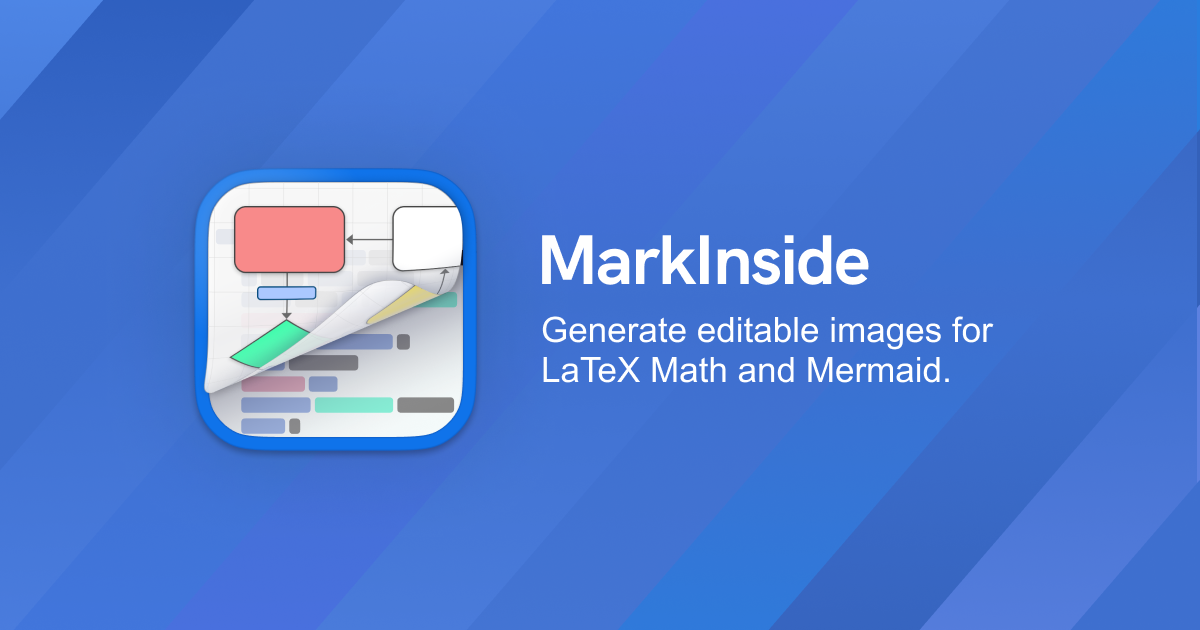
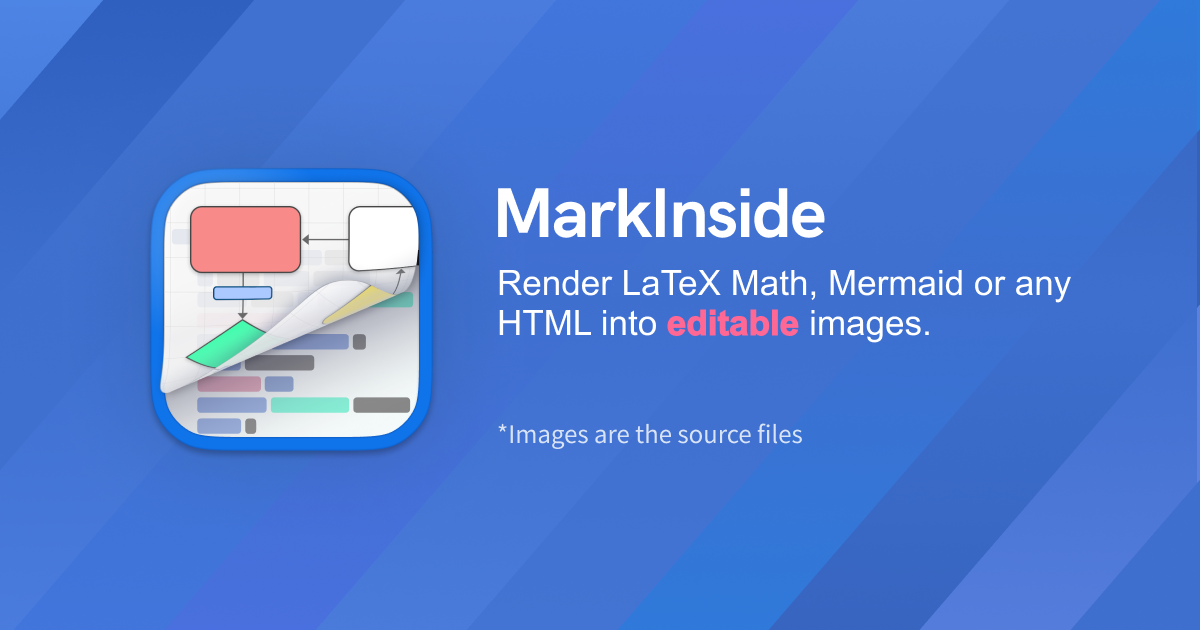
Publish deploy 2022-03-10 12:11 AM

Changed region(s): [[0.1233, 0.2413, 0.8942, 0.7238]]

diff --git a/zh-cn/index.html b/zh-cn/index.html
@@ -1,1 +1,1 @@
-<!DOCTYPE html><html lang="en"><head><meta charset="UTF-8"/><meta name="og:site_name" content="MarkInside for macOS (and Windows Later)"/><link rel="canonical" href="https://markinside.intii.com/zh-cn"/><meta name="twitter:url" content="https://markinside.intii.com/zh-cn"/><meta name="og:url" content="https://markinside.intii.com/zh-cn"/><title>MarkInside for macOS (and Windows Later)</title><meta name="twitter:title" content="MarkInside for macOS (and Windows Later)"/><meta name="og:title" content="MarkInside for macOS (and Windows Later)"/><meta name="description" content="MarkInside for macOS (and Windows Later)"/><meta name="twitter:description" content="MarkInside for macOS (and Windows Later)"/><meta name="og:description" content="MarkInside for macOS (and Windows Later)"/><meta name="twitter:card" content="summary_large_image"/><link rel="stylesheet" href="/styles.css" type="text/css"/><meta name="viewport" content="width=device-width, initial-scale=1.0"/><link rel="shortcut icon" href="/images/favicon.png" type="image/png"/><meta name="twitter:image" content="https://markinside.intii.com/Twitter_Card_ZH.png?random=3878"/><meta name="og:image" content="https://markinside.intii.com/Twitter_Card_ZH.png?random=3878"/><meta name="twitter:site" content="@intitni"/><meta name="twitter:creator" content="@intitni"/></head><body class="wrapper"><header class="header"><div class="page-links"><p><a href="https://www.craft.do/s/3U2bTBDh3YGYG7">版本记录</a></p><p><a href="https://www.craft.do/s/202QeKkBT1MksS">隐私协议</a></p></div></header><div class="introduction-stack"><div class="app-icon"><img src="/AppIcon.png"/></div><div class="app-title"><h1>MarkInside</h1></div><div class="app-introduction"><p>你并不需要一个高端的笔记软件去创建、编辑、预览</p><p><span class="bold">LaTex Math</span> 和 <span class="bold">Mermaid</span></p></div><div class="downloads"><a href="https://apps.apple.com/cn/app/markinside/id1551813400"><img src="/DownloadFromMAS_US.svg"/></a></div></div><div class="content"><h2>图片即源文件</h2><p>没有任何 *.markinside 文件！通过 MarkInside 生成的图片就是源文件。 如果你想编辑图片里的内容，只需要✱用 MarkInside 打开图片就可以了。</p><p class="note">✱ 有的应用会压缩 PNG 文件，导致 MarkInside 嵌入其中的源代码被删除。如果你遇到了这种情况，可以考虑生成 SVG 或 PDF。</p><h2>实时预览</h2><p>MarkInside 提供了生成内容的实时预览，随时更新源代码或者配置就能实时查看图片的变化。</p><p>你也可以调整预览区域大小，或者修改它的背景颜色以让它更贴近你希望使用这些图片的环境。这样你就可以更游刃有余地为图片选择适合的配置。</p><h2>在任何地方使用</h2><p>通过 MarkInside 生成的文件不过是常见的 PNG、SVG 和 PDF。这意味着你不需要什么特殊的渲染软件就可以将它们展示在任何地方。</p></div><footer class="footer"><p>Copyright © 2021</p><p><a href="mailto:markinsideapp@intii.com">联系我</a></p><script src="https://www.googletagmanager.com/gtag/js?id=UA-17603222-4"></script></footer></body></html>
+<!DOCTYPE html><html lang="en"><head><meta charset="UTF-8"/><meta name="og:site_name" content="MarkInside for macOS (and Windows Later)"/><link rel="canonical" href="https://markinside.intii.com/zh-cn"/><meta name="twitter:url" content="https://markinside.intii.com/zh-cn"/><meta name="og:url" content="https://markinside.intii.com/zh-cn"/><title>MarkInside for macOS (and Windows Later)</title><meta name="twitter:title" content="MarkInside for macOS (and Windows Later)"/><meta name="og:title" content="MarkInside for macOS (and Windows Later)"/><meta name="description" content="MarkInside for macOS (and Windows Later)"/><meta name="twitter:description" content="MarkInside for macOS (and Windows Later)"/><meta name="og:description" content="MarkInside for macOS (and Windows Later)"/><meta name="twitter:card" content="summary_large_image"/><link rel="stylesheet" href="/styles.css" type="text/css"/><meta name="viewport" content="width=device-width, initial-scale=1.0"/><link rel="shortcut icon" href="/images/favicon.png" type="image/png"/><meta name="twitter:image" content="https://markinside.intii.com/Twitter_Card_ZH.png?random=3747"/><meta name="og:image" content="https://markinside.intii.com/Twitter_Card_ZH.png?random=3747"/><meta name="twitter:site" content="@intitni"/><meta name="twitter:creator" content="@intitni"/></head><body class="wrapper"><header class="header"><div class="page-links"><p><a href="https://www.craft.do/s/3U2bTBDh3YGYG7">版本记录</a></p><p><a href="https://www.craft.do/s/202QeKkBT1MksS">隐私协议</a></p></div></header><div class="introduction-stack"><div class="app-icon"><img src="/AppIcon.png"/></div><div class="app-title"><h1>MarkInside</h1></div><div class="app-introduction"><p>你并不需要一个高端的笔记软件去创建、编辑、预览</p><p><span class="bold">LaTeX 数学公式</span>、<span class="bold">Mermaid</span> 和<span class="bold">任意 HTML</span></p></div><div class="downloads"><a href="https://apps.apple.com/cn/app/markinside/id1551813400"><img src="/DownloadFromMAS_US.svg"/></a></div></div><div class="content"><h2>图片即源文件</h2><p>没有任何 *.markinside 文件！通过 MarkInside 生成的图片就是源文件。 如果你想编辑图片里的内容，只需要✱用 MarkInside 打开图片就可以了。</p><p class="note">✱ 有的应用会压缩 PNG 文件，导致 MarkInside 嵌入其中的源代码被删除。如果你遇到了这种情况，可以考虑生成 SVG 或 PDF。</p><h2>实时预览</h2><p>MarkInside 提供了生成内容的实时预览，随时更新源代码或者配置就能实时查看图片的变化。</p><p>你也可以调整预览区域大小，或者修改它的背景颜色以让它更贴近你希望使用这些图片的环境。这样你就可以更游刃有余地为图片选择适合的配置。</p><h2>在任何地方使用</h2><p>通过 MarkInside 生成的文件不过是常见的 PNG、SVG 和 PDF。这意味着你不需要什么特殊的渲染软件就可以将它们展示在任何地方。</p></div><footer class="footer"><p>Copyright © 2021</p><p><a href="mailto:markinsideapp@intii.com">联系我</a></p><script src="https://www.googletagmanager.com/gtag/js?id=UA-17603222-4"></script></footer></body></html>

diff --git a/index.html b/index.html
@@ -1,2 +1,2 @@
-<!DOCTYPE html><html lang="en"><head><meta charset="UTF-8"/><meta name="og:site_name" content="MarkInside for macOS (and Windows Later)"/><link rel="canonical" href="https://markinside.intii.com"/><meta name="twitter:url" content="https://markinside.intii.com"/><meta name="og:url" content="https://markinside.intii.com"/><title>MarkInside for macOS (and Windows Later)</title><meta name="twitter:title" content="MarkInside for macOS (and Windows Later)"/><meta name="og:title" content="MarkInside for macOS (and Windows Later)"/><meta name="description" content="MarkInside for macOS (and Windows Later)"/><meta name="twitter:description" content="MarkInside for macOS (and Windows Later)"/><meta name="og:description" content="MarkInside for macOS (and Windows Later)"/><meta name="twitter:card" content="summary_large_image"/><link rel="stylesheet" href="/styles.css" type="text/css"/><meta name="viewport" content="width=device-width, initial-scale=1.0"/><link rel="shortcut icon" href="/images/favicon.png" type="image/png"/><meta name="twitter:image" content="https://markinside.intii.com/Twitter_Card_EN.png?random=6836"/><meta name="og:image" content="https://markinside.intii.com/Twitter_Card_EN.png?random=6836"/><meta name="twitter:site" content="@intitni"/><meta name="twitter:creator" content="@intitni"/></head><body class="wrapper"><header class="header"><div class="page-links"><p><a href="https://www.craft.do/s/3U2bTBDh3YGYG7">Change Log</a></p><p><a href="https://www.craft.do/s/202QeKkBT1MksS">Privacy Policy</a></p></div></header><div class="introduction-stack"><div class="app-icon"><img src="/AppIcon.png"/></div><div class="app-title"><h1>MarkInside</h1></div><div class="app-introduction"><p>You don’t need a fancy note editor to
-create, edit and preview</p><p><span class="bold">LaTex Math</span> and <span class="bold">Mermaid</span></p></div><div class="downloads"><a href="https://apps.apple.com/cn/app/markinside/id1551813400"><img src="/DownloadFromMAS_US.svg"/></a></div></div><div class="content"><h2>Image is the Source</h2><p>There is no *.markinside file generated alongside when you save images from code. The images are just the single source of truth. You can simply✱ open them in MarkInside to make changes.</p><p class="note">✱ Some apps or services may compress your images and wipe away source codes embed inside. You can try to save as SVG or PDF to bypass this issue.</p><h2>Live Preview</h2><p>MarkInside offers you a side by side editor, you can see the result as you type or change preferences.</p><p>You can adjust windows size and canvas background color, to see how well the output image will suit your use case.</p><h2>Use Everywhere</h2><p>The generated files are just images in PNG, SVG and PDF. Which means you can use them everywhere, without the need for the viewer to support rendering Mermaid, etc.</p></div><footer class="footer"><p>Copyright © 2021</p><p><a href="mailto:markinsideapp@intii.com">Contact Me</a></p><script src="https://www.googletagmanager.com/gtag/js?id=UA-17603222-4"></script></footer></body></html>
+<!DOCTYPE html><html lang="en"><head><meta charset="UTF-8"/><meta name="og:site_name" content="MarkInside for macOS (and Windows Later)"/><link rel="canonical" href="https://markinside.intii.com"/><meta name="twitter:url" content="https://markinside.intii.com"/><meta name="og:url" content="https://markinside.intii.com"/><title>MarkInside for macOS (and Windows Later)</title><meta name="twitter:title" content="MarkInside for macOS (and Windows Later)"/><meta name="og:title" content="MarkInside for macOS (and Windows Later)"/><meta name="description" content="MarkInside for macOS (and Windows Later)"/><meta name="twitter:description" content="MarkInside for macOS (and Windows Later)"/><meta name="og:description" content="MarkInside for macOS (and Windows Later)"/><meta name="twitter:card" content="summary_large_image"/><link rel="stylesheet" href="/styles.css" type="text/css"/><meta name="viewport" content="width=device-width, initial-scale=1.0"/><link rel="shortcut icon" href="/images/favicon.png" type="image/png"/><meta name="twitter:image" content="https://markinside.intii.com/Twitter_Card_EN.png?random=301"/><meta name="og:image" content="https://markinside.intii.com/Twitter_Card_EN.png?random=301"/><meta name="twitter:site" content="@intitni"/><meta name="twitter:creator" content="@intitni"/></head><body class="wrapper"><header class="header"><div class="page-links"><p><a href="https://www.craft.do/s/3U2bTBDh3YGYG7">Change Log</a></p><p><a href="https://www.craft.do/s/202QeKkBT1MksS">Privacy Policy</a></p></div></header><div class="introduction-stack"><div class="app-icon"><img src="/AppIcon.png"/></div><div class="app-title"><h1>MarkInside</h1></div><div class="app-introduction"><p>You don’t need a fancy note editor to
+create, edit and preview</p><p><span class="bold">LaTeX Math</span>, <span class="bold">Mermaid</span>, and <span class="bold">any HTML</span></p></div><div class="downloads"><a href="https://apps.apple.com/cn/app/markinside/id1551813400"><img src="/DownloadFromMAS_US.svg"/></a></div></div><div class="content"><h2>Image is the Source</h2><p>There is no *.markinside file generated alongside when you save images from code. The images are just the single source of truth. You can simply✱ open them in MarkInside to make changes.</p><p class="note">✱ Some apps or services may compress your images and wipe away source codes embed inside. You can try to save as SVG or PDF to bypass this issue.</p><h2>Live Preview</h2><p>MarkInside offers you a side by side editor, you can see the result as you type or change preferences.</p><p>You can adjust windows size and canvas background color, to see how well the output image will suit your use case.</p><h2>Use Everywhere</h2><p>The generated files are just images in PNG, SVG and PDF. Which means you can use them everywhere, without the need for the viewer to support rendering Mermaid, etc.</p></div><footer class="footer"><p>Copyright © 2021</p><p><a href="mailto:markinsideapp@intii.com">Contact Me</a></p><script src="https://www.googletagmanager.com/gtag/js?id=UA-17603222-4"></script></footer></body></html>
